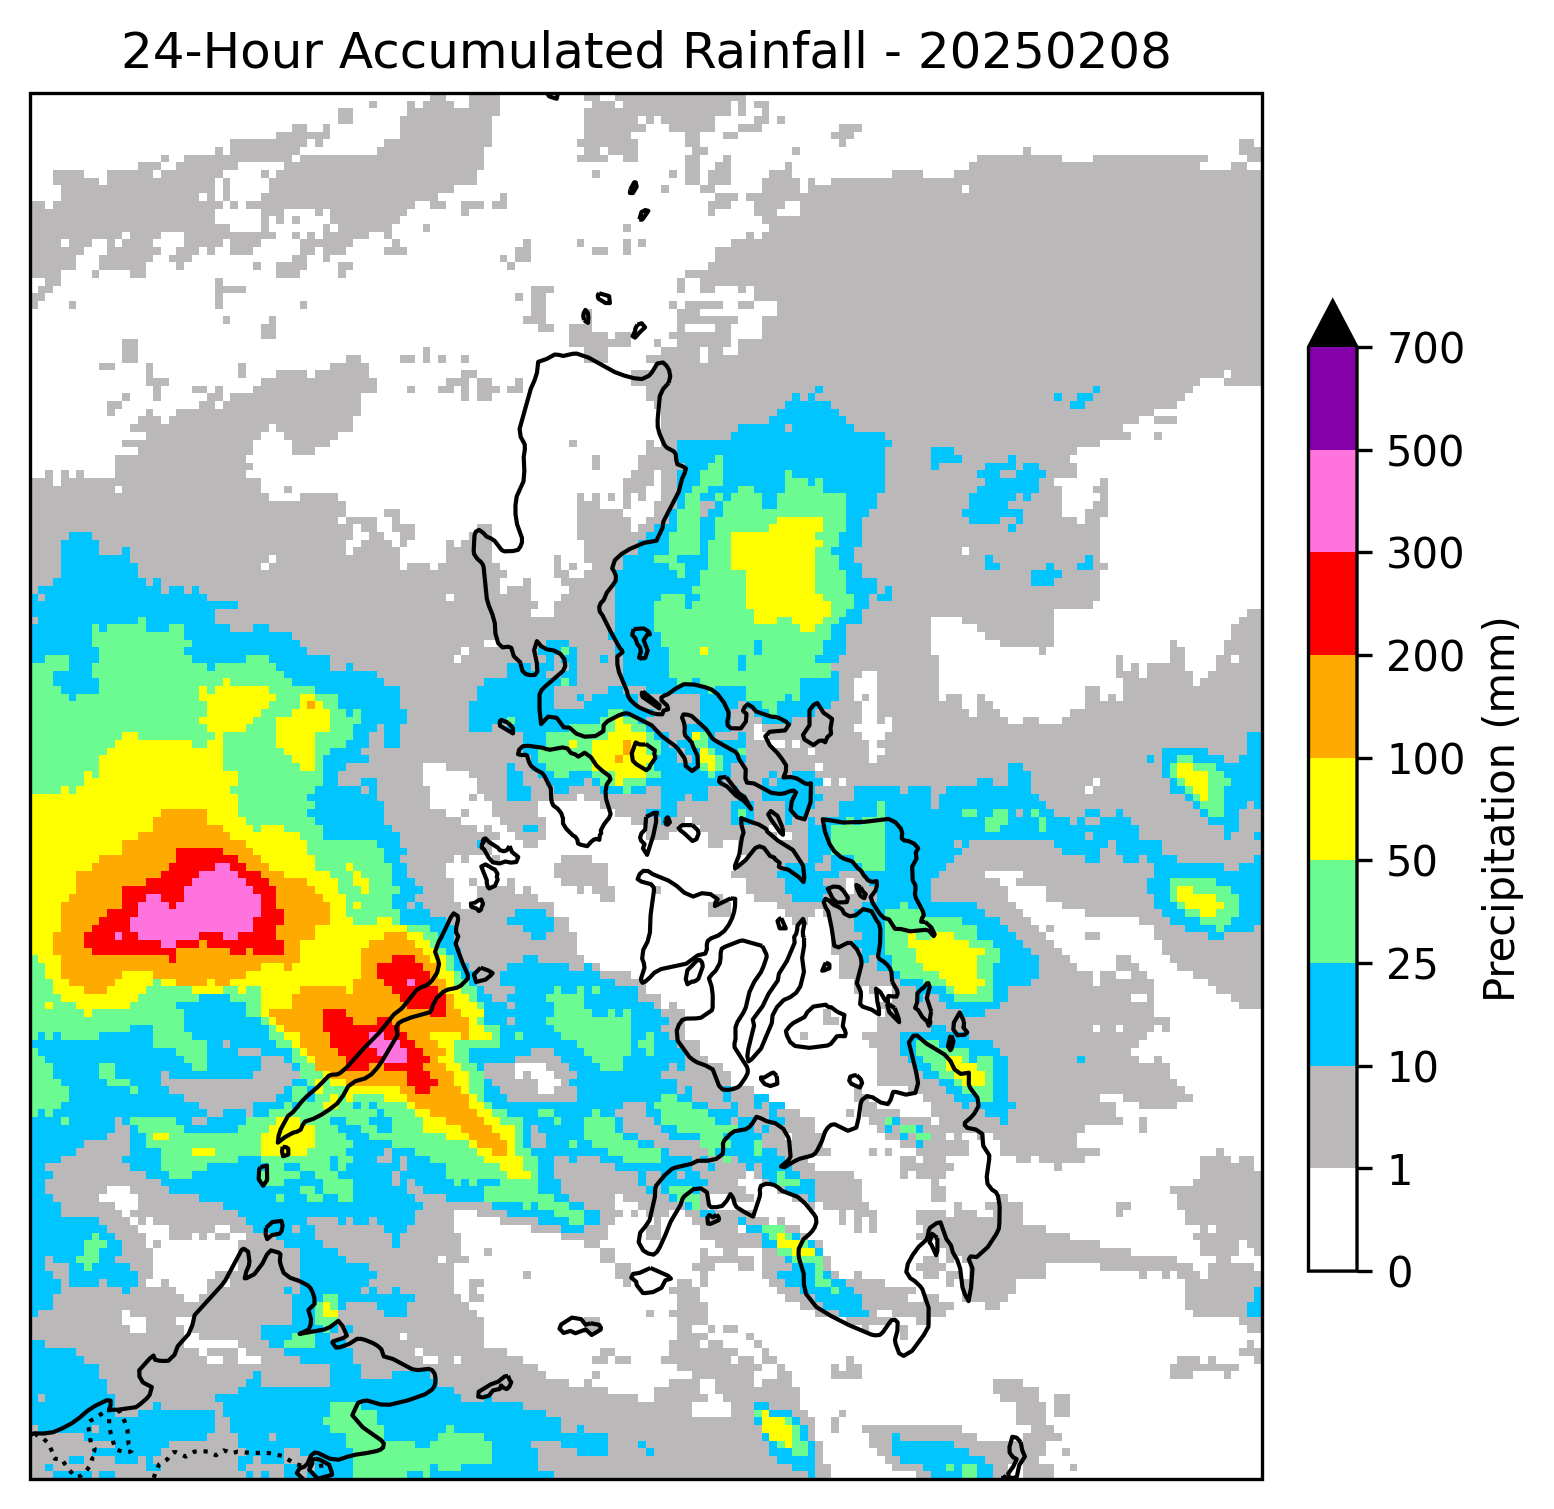
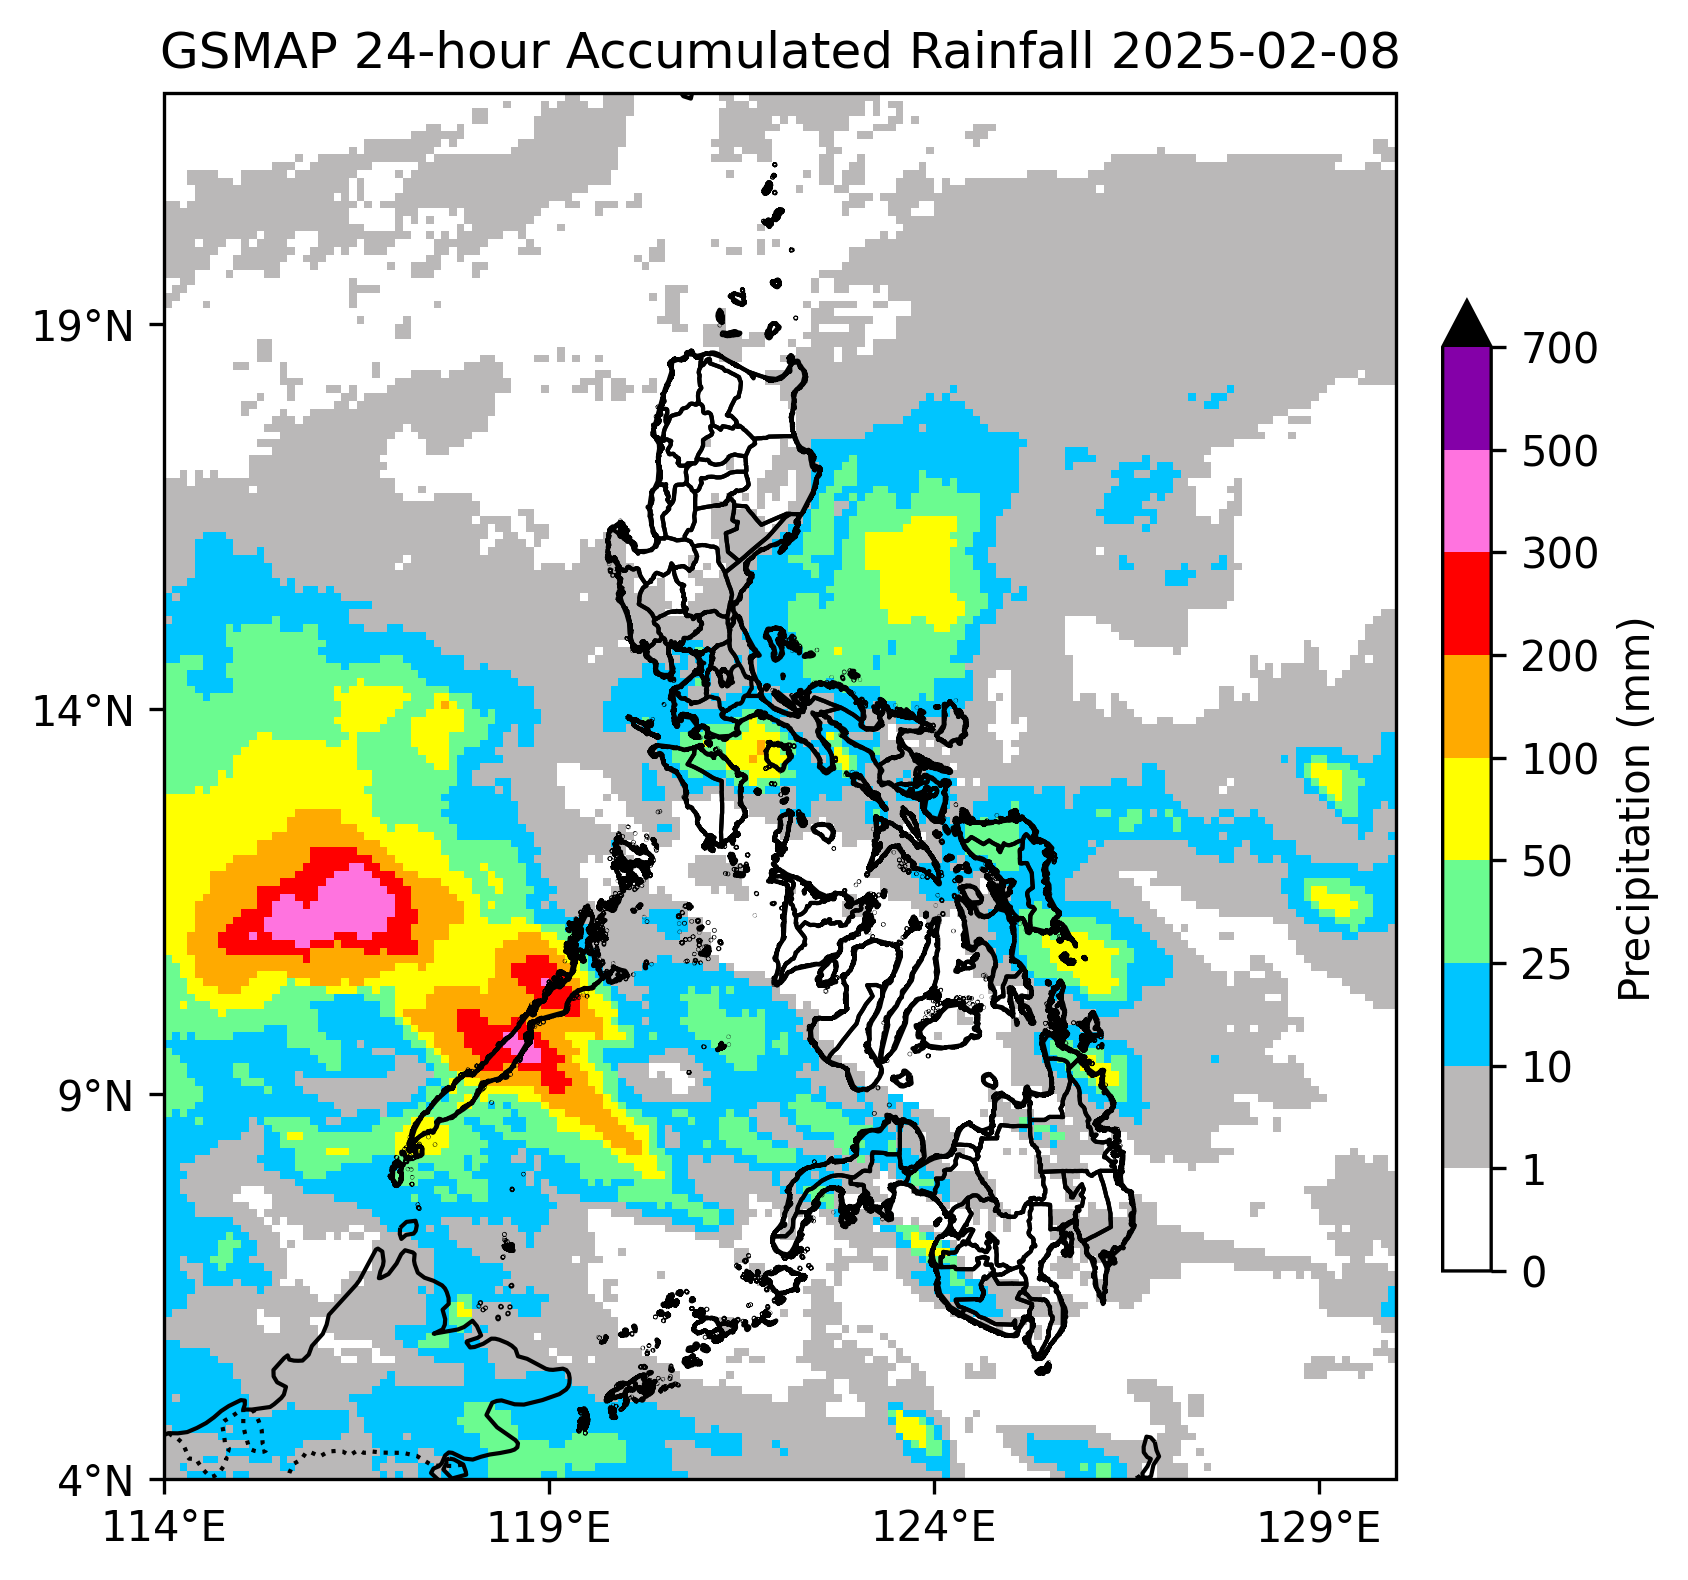
added gsmap_point.py and gsmap_station.py, modified chart features of gsmap_plot.py

diff --git a/gsmap_station.py b/gsmap_station.py
@@ -1,0 +1,128 @@
+import os
+import pandas as pd
+import numpy as np
+import xarray as xr
+import matplotlib.pyplot as plt
+import matplotlib.colors as mcolors
+import geopandas as gpd
+import cartopy.crs as ccrs
+import cartopy.feature as cfeature
+
+def find_nc_files(folder):
+    """Retrieve all .nc files in a given folder."""
+    return [os.path.join(folder, f) for f in os.listdir(folder) if f.endswith(".nc")]
+
+# Ensure output directory exists
+output_dir = "bias_gsmap-station"
+os.makedirs(output_dir, exist_ok=True)
+
+# Load station rainfall data
+station_file = "rainfall_data.csv"
+df_station = pd.read_csv(station_file)
+df_station.columns = df_station.columns.str.strip()
+
+# Identify rainfall columns dynamically (columns with YYYYMMDD format)
+date_columns = [col for col in df_station.columns if col.isdigit() and len(col) == 8]
+
+df_station["lat"] = pd.to_numeric(df_station["lat"], errors="coerce")
+df_station["lon"] = pd.to_numeric(df_station["lon"], errors="coerce")
+
+# Load the shapefile
+shapefile = gpd.read_file("shapefiles/phprov.shp")
+
+# Define bias color scale
+levels = [-100, -50, -25, -10, -5, -1, 0, 1, 5, 10, 25, 50, 100]
+colors = ["#a80000", "#ff0000", "#ff7373", "#ffb8b8", "#ffe6e6", "#ffffff", "#e6f7ff", "#b8e6ff", "#73c2ff", "#7373ff", "#0000a8", "#000066"]
+cmap = mcolors.ListedColormap(colors)
+norm = mcolors.BoundaryNorm(levels, cmap.N)
+
+# Iterate through each date column
+for date in date_columns:
+    station_data = df_station[["lat", "lon", date]].copy()
+    station_data[date] = station_data[date].replace("T", 0).astype(float)
+    
+    # Path to the GSMaP folder for this date
+    gsmap_folder = os.path.join("gsmap_data", date)
+    if not os.path.exists(gsmap_folder):
+        print(f"Skipping {date}, GSMaP data folder not found.")
+        continue
+    
+    # Accumulate 24-hour rainfall from all available NetCDF files
+    gsmap_total = None
+    nc_files = find_nc_files(gsmap_folder)
+    if not nc_files:
+        print(f"Skipping {date}, no GSMaP NetCDF files found.")
+        continue
+    
+    for nc_file in nc_files:
+        ds = xr.open_dataset(nc_file, decode_times=False)
+        
+        # Extract correct rainfall variable
+        if "hourlyPrecipRate" in ds:
+            rainfall = ds["hourlyPrecipRate"].values.squeeze()
+        elif "hourlyPrecipRateGC" in ds:
+            rainfall = ds["hourlyPrecipRateGC"].values.squeeze()
+        else:
+            print(f"Skipping {nc_file}, no valid precipitation variable found.")
+            ds.close()
+            continue
+        
+        lats = ds["Latitude"].values
+        lons = ds["Longitude"].values
+        
+        if gsmap_total is None:
+            gsmap_total = rainfall
+        else:
+            gsmap_total += rainfall
+        
+        ds.close()
+    
+    if gsmap_total is None:
+        print(f"Skipping {date}, no valid GSMaP data found.")
+        continue
+    
+    # Compute bias: GSMaP 24-hour rainfall - Station rainfall
+    station_data["bias"] = np.nan
+    for i, row in station_data.iterrows():
+        lat_idx = np.abs(lats - row["lat"]).argmin()
+        lon_idx = np.abs(lons - row["lon"]).argmin()
+        station_data.at[i, "bias"] = gsmap_total[lat_idx, lon_idx] - row[date]
+    
+    # Plot
+    fig, ax = plt.subplots(figsize=(8, 6), subplot_kw={"projection": ccrs.PlateCarree()})
+    ax.set_extent([df_station["lon"].min() - 1, df_station["lon"].max() + 1, df_station["lat"].min() - 1, df_station["lat"].max() + 1], crs=ccrs.PlateCarree())
+    ax.add_feature(cfeature.BORDERS, linestyle=":")
+    ax.add_feature(cfeature.COASTLINE)
+    shapefile.boundary.plot(ax=ax, edgecolor="black", linewidth=1, transform=ccrs.PlateCarree())
+    
+    # Scatter plot
+    sc = ax.scatter(
+        station_data["lon"], station_data["lat"], 
+        c=station_data["bias"], cmap=cmap, norm=norm, 
+        edgecolor="black", s=50, transform=ccrs.PlateCarree()
+    )
+    
+    # Add color bar
+    cbar = plt.colorbar(sc, ax=ax, orientation="vertical", shrink=0.7, pad=0.02, extend="both")
+    cbar.set_label("Bias (GSMaP - Station) mm")
+    cbar.set_ticks(levels)
+    cbar.set_ticklabels([str(l) for l in levels])
+    
+    # Format date
+    formatted_date = pd.to_datetime(date, format="%Y%m%d").strftime("%Y-%m-%d")
+    ax.set_title(f"GSMaP - Station Rainfall Bias ({formatted_date})")
+    
+    # Longitude and latitude bars
+    ax.set_xticks(np.arange(df_station["lon"].min() - 1, df_station["lon"].max() + 2, 5), crs=ccrs.PlateCarree())
+    ax.set_yticks(np.arange(df_station["lat"].min() - 1, df_station["lat"].max() + 2, 5), crs=ccrs.PlateCarree())
+    ax.xaxis.set_major_formatter(plt.FuncFormatter(lambda v, pos: f"{v:.1f}°E"))
+    ax.yaxis.set_major_formatter(plt.FuncFormatter(lambda v, pos: f"{v:.1f}°N"))
+    ax.tick_params(axis="both", labelsize=10)
+    ax.set_xlabel("")
+    ax.set_ylabel("")
+    
+    # Save
+    plt.savefig(f"{output_dir}/bias_{date}.png", dpi=300, bbox_inches="tight")
+    plt.close()
+    
+print(f"Bias plots saved in '{output_dir}'")

diff --git a/gsmap_point.py b/gsmap_point.py
@@ -1,0 +1,129 @@
+import os
+import glob
+import xarray as xr
+import pandas as pd
+import numpy as np
+import matplotlib.pyplot as plt
+import matplotlib.colors as mcolors
+import geopandas as gpd
+import cartopy.crs as ccrs
+import cartopy.feature as cfeature
+from datetime import datetime
+
+# Ensure output directory exists
+output_dir = "gsmap_point"
+os.makedirs(output_dir, exist_ok=True)
+
+# Load CSV file with coordinates (assumed columns: 'lat', 'lon')
+csv_file = "coordinates.csv"
+coords_df = pd.read_csv(csv_file)
+
+# Define region boundaries (adjust as needed)
+lat_min, lat_max = 4, 22
+lon_min, lon_max = 114, 130
+
+# Load the shapefile
+shapefile = gpd.read_file("shapefiles/phprov.shp")
+
+# Define precipitation thresholds and colors
+levels = [0, 1, 10, 25, 50, 100, 200, 300, 500, 700]
+colors = ["#ffffff", "#bab8b8", "#00c5ff", "#6bfb90", "#ffff00", "#ffaa00", "#ff0000", "#ff73df", "#8400a8"]
+cmap = mcolors.ListedColormap(colors).with_extremes(over="#000000")
+norm = mcolors.BoundaryNorm(levels, cmap.N)
+
+# Loop through all NetCDF files in the 'gsmap_data' folder
+for folder in sorted(glob.glob("gsmap_data/*")):
+    folder_name = os.path.basename(folder)
+    print(f"Processing: {folder_name}")
+
+    # Accumulate 24-hour rainfall from all available NetCDF files
+    gsmap_total = None
+    nc_files = glob.glob(os.path.join(folder, "*.nc"))
+    if not nc_files:
+        print(f"Skipping {folder_name}, no GSMaP NetCDF files found.")
+        continue
+    
+    for nc_file in nc_files:
+        ds = xr.open_dataset(nc_file, decode_times=False)
+        
+        # Extract rainfall variable (adjust variable name if needed)
+        rainfall = ds["hourlyPrecipRate"].values.squeeze()  # Correct variable name
+        lats = ds["Latitude"].values  # Use 'Latitude' instead of 'lat'
+        lons = ds["Longitude"].values  # Use 'Longitude' instead of 'lon'
+        
+        if gsmap_total is None:
+            gsmap_total = rainfall
+        else:
+            gsmap_total += rainfall
+        
+        ds.close()
+    
+    if gsmap_total is None:
+        print(f"Skipping {folder_name}, no valid GSMaP data found.")
+        continue
+    
+    # Extract date from folder name (yyyymmdd)
+    date_str = folder_name
+
+    # Extract precipitation data at each coordinate
+    precip_values = []
+    for _, row in coords_df.iterrows():
+        lat, lon = row["lat"], row["lon"]
+        precip_value = gsmap_total[np.abs(lats - lat).argmin(), np.abs(lons - lon).argmin()]
+        precip_values.append(precip_value)
+
+    # Add precipitation data to DataFrame
+    coords_df["precip"] = precip_values
+
+    # Create figure
+    fig, ax = plt.subplots(figsize=(8, 6), subplot_kw={"projection": ccrs.PlateCarree()})
+    ax.set_extent([lon_min, lon_max, lat_min, lat_max], crs=ccrs.PlateCarree())
+
+    # Add map features
+    ax.add_feature(cfeature.BORDERS, linestyle=":")
+    ax.add_feature(cfeature.COASTLINE)
+
+    # Plot shapefile
+    shapefile.boundary.plot(ax=ax, edgecolor="black", linewidth=1, transform=ccrs.PlateCarree())
+
+    # Scatter plot with precipitation data
+    sc = ax.scatter(
+        coords_df["lon"], coords_df["lat"], 
+        c=coords_df["precip"], cmap=cmap, norm=norm,
+        edgecolor="black", s=50, transform=ccrs.PlateCarree()
+    )
+
+    # Define tick values for longitude and latitude at 5-degree increments
+    lon_ticks = np.arange(lon_min, lon_max + 1, 5)
+    lat_ticks = np.arange(lat_min, lat_max + 1, 5)
+
+    # Set tick positions
+    ax.set_xticks(lon_ticks, crs=ccrs.PlateCarree())
+    ax.set_yticks(lat_ticks, crs=ccrs.PlateCarree())
+
+    # Format tick labels to display degrees
+    ax.xaxis.set_major_formatter(plt.FuncFormatter(lambda v, pos: f"{v:.1f}°E"))
+    ax.yaxis.set_major_formatter(plt.FuncFormatter(lambda v, pos: f"{v:.1f}°N"))
+
+    # Adjust tick label size
+    ax.tick_params(axis="both", labelsize=10)
+
+    # Remove labels
+    ax.set_xlabel("")
+    ax.set_ylabel("")
+
+    # Add color bar
+    cbar = plt.colorbar(sc, ax=ax, orientation="vertical", shrink=0.7, pad=0.02, extend="max")
+    cbar.set_label("Precipitation (mm)")
+    cbar.set_ticks(levels)
+    cbar.set_ticklabels([str(l) for l in levels])
+
+    # Set title with extracted date in 'yyyy-mm-dd' format
+    start_date = datetime.strptime(date_str, "%Y%m%d")
+    ax.set_title(f"GSMap 24-hour Accumulated Rainfall ({start_date.strftime('%Y-%m-%d')})", fontsize=14)
+
+    # Save plot
+    plt.savefig(f"gsmap_point/{start_date.strftime('%Y%m%d')}.png", dpi=300, bbox_inches='tight')
+    plt.close()
+    
+print("Processing complete!")

diff --git a/gsmap_plot.py b/gsmap_plot.py
@@ -5,6 +5,8 @@ import cartopy.crs as ccrs
 import cartopy.feature as cfeature
 import os
 import matplotlib.colors as mcolors
+import shapefile as shp
+from cartopy.io.shapereader import Reader
 
 # Define input and output directories
 data_dir = "gsmap_data"
@@ -87,6 +89,10 @@ for day_folder in sorted(os.listdir(data_dir)):
     ax.add_feature(cfeature.COASTLINE)
     ax.add_feature(cfeature.BORDERS, linestyle=':')
     ax.add_feature(cfeature.LAND, edgecolor='black', facecolor='lightgray')
+    
+    # Overlay shapefile
+    shapefile_path = "shapefiles/phprov.shp"
+    ax.add_geometries(Reader(shapefile_path).geometries(), ccrs.PlateCarree(), edgecolor='black', facecolor='none')
 
     # Plot rainfall
     cf = ax.pcolormesh(lon, lat, accumulated_rainfall, cmap=cmap, norm=norm, transform=ccrs.PlateCarree(), shading='auto')
@@ -97,8 +103,14 @@ for day_folder in sorted(os.listdir(data_dir)):
     cbar.set_ticks(levels)
     cbar.set_ticklabels([f"{int(l)}" for l in levels])
 
+    # Add latitude and longitude bars with 5-degree intervals
+    ax.set_xticks(np.arange(lon_min, lon_max + 1, 5), crs=ccrs.PlateCarree())
+    ax.set_yticks(np.arange(lat_min, lat_max + 1, 5), crs=ccrs.PlateCarree())
+    ax.xaxis.set_major_formatter(plt.FuncFormatter(lambda val, pos: f"{val}\u00b0E"))
+    ax.yaxis.set_major_formatter(plt.FuncFormatter(lambda val, pos: f"{val}\u00b0N"))
+
     # Add title
-    ax.set_title(f"24-Hour Accumulated Rainfall - {day_folder}")
+    ax.set_title(f"GSMAP 24-hour Accumulated Rainfall {day_folder[:4]}-{day_folder[4:6]}-{day_folder[6:]}")
 
     # Save plot
     output_filename = os.path.join(output_dir, f"gsmap_{day_folder}.png")
